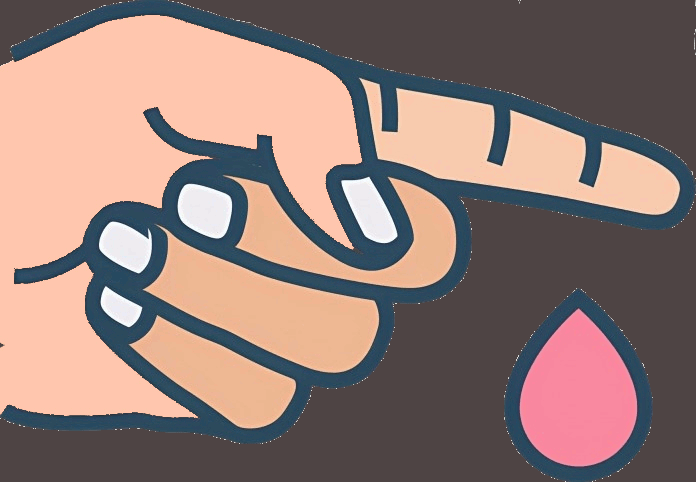
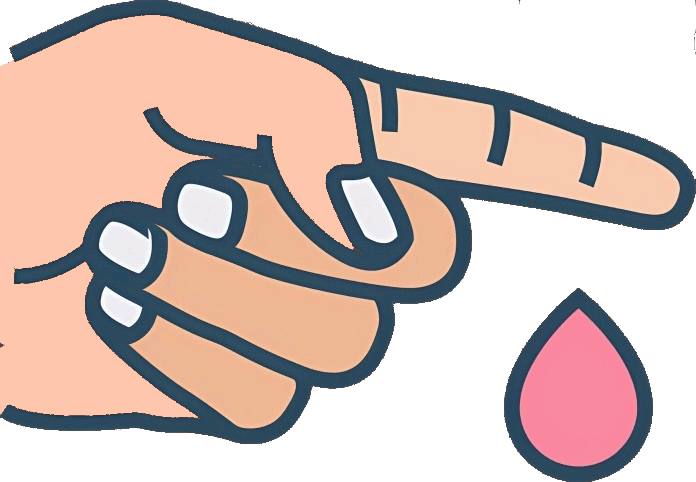
png_background

diff --git a/prototype1.html b/prototype1.html
@@ -446,7 +446,7 @@ footer a:hover{color:var(--text)}
 
     <div class="step">
       <div class="step-num">
-        <img src="assets/images/diabetes-hand-pointing-with-blood-drop-illustration-QfcGMmu2.jpeg" alt="">
+        <img src="assets/images/diabetes-hand-pointing-with-blood-drop-illustration-QfcGMmu2.png" alt="">
       </div>
       <p class="step-name"><span class="lang-de">Blutprobe entnehmen</span><span class="lang-en" style="display:none">Take Blood Sample</span></p>
       <p class="step-desc">